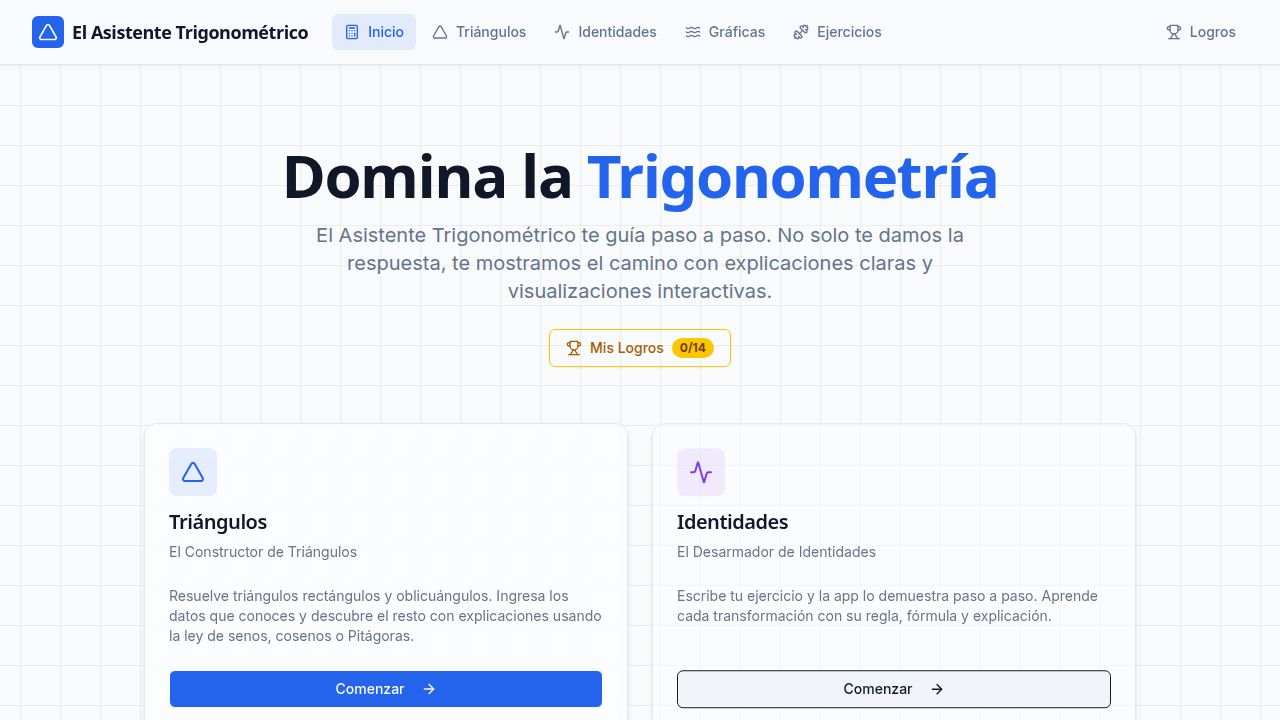
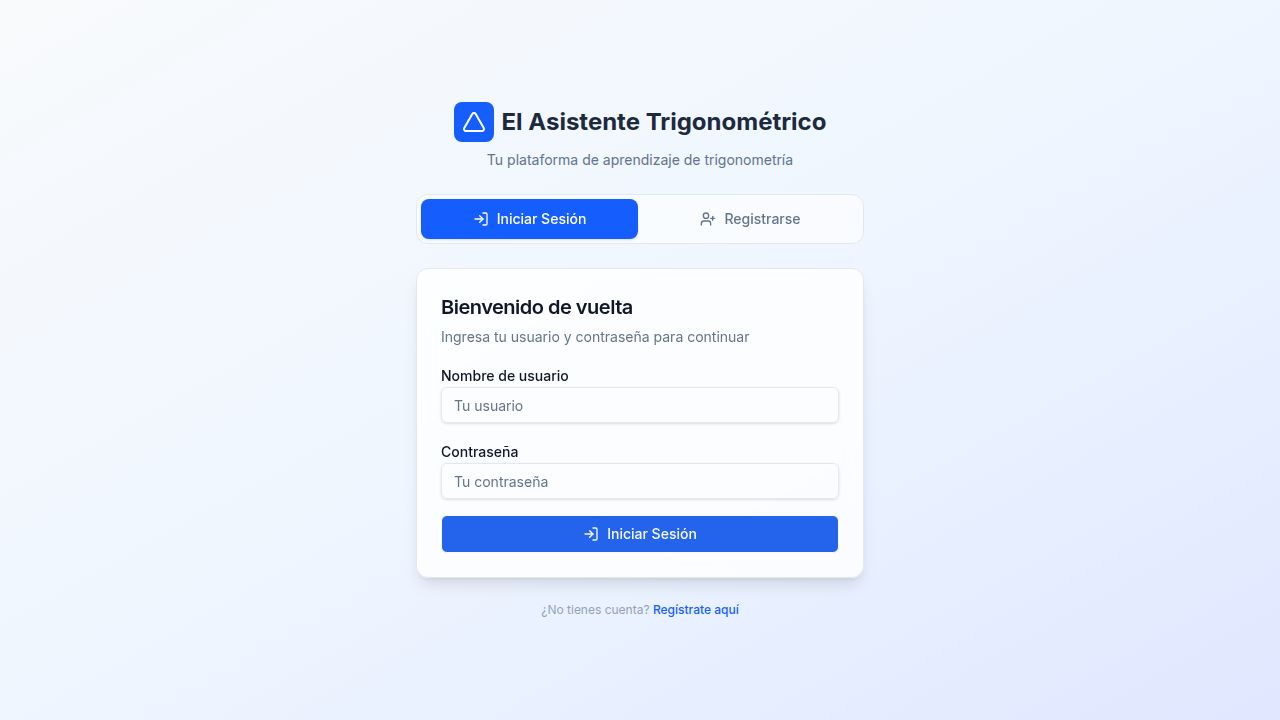
Add email notifications for user registration and login events
Integrate Resend email service to send welcome and security emails upon user registration and login, respectively, by modifying `auth.ts` and `mailer.ts`.

Replit-Commit-Author: Agent
Replit-Commit-Session-Id: d2a040cb-6e11-4bfe-9bbe-4e27666717b6
Replit-Commit-Checkpoint-Type: full_checkpoint
Replit-Commit-Event-Id: 7203d018-6c07-452c-97ee-eafd948a4675
Replit-Commit-Screenshot-Url: https://storage.googleapis.com/screenshot-production-us-central1/0520a791-d00d-41f6-a3dd-6ff82fb7f4d0/d2a040cb-6e11-4bfe-9bbe-4e27666717b6/n9VEuoZ
Replit-Helium-Checkpoint-Created: true

diff --git a/artifacts/api-server/src/lib/mailer.ts b/artifacts/api-server/src/lib/mailer.ts
@@ -1,0 +1,164 @@
+import { Resend } from "resend";
+import { logger } from "./logger";
+
+const resend = new Resend(process.env.RESEND_API_KEY);
+
+const FROM = "CoolTrigoGuy <[email redacted]>";
+
+const LOGO_SVG = `
+<div style="display:inline-flex;align-items:center;gap:12px;margin-bottom:8px;">
+  <div style="background:#2563eb;border-radius:10px;padding:10px;display:inline-block;">
+    <svg width="32" height="32" viewBox="0 0 24 24" fill="none" xmlns="http://www.w3.org/2000/svg">
+      <path d="M3 20L12 4L21 20H3Z" fill="white" stroke="white" stroke-width="1.5" stroke-linejoin="round"/>
+    </svg>
+  </div>
+  <span style="font-size:20px;font-weight:700;color:#1e293b;font-family:sans-serif;">
+    El Asistente Trigonométrico
+  </span>
+</div>
+`;
+
+function baseTemplate(content: string): string {
+  return `<!DOCTYPE html>
+<html lang="es">
+<head><meta charset="UTF-8"><meta name="viewport" content="width=device-width,initial-scale=1.0"></head>
+<body style="margin:0;padding:0;background:#f1f5f9;font-family:-apple-system,BlinkMacSystemFont,'Segoe UI',sans-serif;">
+  <table width="100%" cellpadding="0" cellspacing="0" style="background:#f1f5f9;padding:40px 16px;">
+    <tr><td align="center">
+      <table width="560" cellpadding="0" cellspacing="0" style="max-width:560px;width:100%;">
+        <!-- Header -->
+        <tr>
+          <td style="background:#2563eb;border-radius:12px 12px 0 0;padding:28px 36px;">
+            <div style="display:flex;align-items:center;gap:12px;">
+              <div style="background:rgba(255,255,255,0.2);border-radius:8px;padding:8px;display:inline-block;vertical-align:middle;">
+                <svg width="28" height="28" viewBox="0 0 24 24" fill="none" xmlns="http://www.w3.org/2000/svg">
+                  <path d="M3 20L12 4L21 20H3Z" fill="white" stroke="white" stroke-width="1.5" stroke-linejoin="round"/>
+                </svg>
+              </div>
+              <span style="display:inline-block;vertical-align:middle;color:white;font-size:18px;font-weight:700;margin-left:10px;">
+                El Asistente Trigonométrico
+              </span>
+            </div>
+            <div style="margin-top:6px;margin-left:2px;">
+              <span style="background:rgba(255,255,255,0.25);color:white;font-size:11px;font-weight:600;padding:3px 8px;border-radius:20px;letter-spacing:0.5px;">
+                ✦ MENSAJE OFICIAL
+              </span>
+            </div>
+          </td>
+        </tr>
+        <!-- Body -->
+        <tr>
+          <td style="background:white;padding:36px 36px 28px;">
+            ${content}
+          </td>
+        </tr>
+        <!-- Footer -->
+        <tr>
+          <td style="background:#f8fafc;border:1px solid #e2e8f0;border-top:none;border-radius:0 0 12px 12px;padding:20px 36px;text-align:center;">
+            <p style="margin:0;color:#94a3b8;font-size:12px;line-height:1.6;">
+              Este correo fue enviado por <strong>CoolTrigoGuy</strong>, el bot oficial de El Asistente Trigonométrico.<br>
+              Si no reconoces esta acción, ignora este mensaje.
+            </p>
+          </td>
+        </tr>
+      </table>
+    </td></tr>
+  </table>
+</body>
+</html>`;
+}
+
+export async function sendWelcomeEmail(to: string, username: string): Promise<void> {
+  const content = `
+    <h1 style="margin:0 0 8px;color:#1e293b;font-size:26px;font-weight:700;">
+      ¡Bienvenido, ${username}! 🎉
+    </h1>
+    <p style="margin:0 0 24px;color:#64748b;font-size:15px;line-height:1.6;">
+      Gracias por registrarte en <strong>El Asistente Trigonométrico</strong>. Tu cuenta ha sido creada con éxito.
+    </p>
+
+    <div style="background:#eff6ff;border:1px solid #bfdbfe;border-radius:10px;padding:20px 24px;margin-bottom:28px;">
+      <p style="margin:0 0 12px;color:#1e40af;font-size:14px;font-weight:600;">Con tu cuenta puedes:</p>
+      <ul style="margin:0;padding-left:20px;color:#1e40af;font-size:14px;line-height:2;">
+        <li>Resolver triángulos y calcular funciones trigonométricas</li>
+        <li>Verificar identidades trigonométricas paso a paso</li>
+        <li>Explorar gráficas interactivas de seno, coseno y tangente</li>
+        <li>Practicar con ejercicios y desbloquear <strong>14 logros</strong></li>
+      </ul>
+    </div>
+
+    <div style="text-align:center;margin-bottom:8px;">
+      <a href="https://trigonometrico.replit.app"
+         style="display:inline-block;background:#2563eb;color:white;font-size:15px;font-weight:600;padding:13px 32px;border-radius:8px;text-decoration:none;">
+        Ir a la plataforma →
+      </a>
+    </div>
+
+    <p style="margin:28px 0 0;color:#94a3b8;font-size:13px;border-top:1px solid #f1f5f9;padding-top:20px;">
+      — <strong>CoolTrigoGuy</strong>, tu asistente oficial
+    </p>
+  `;
+
+  try {
+    await resend.emails.send({
+      from: FROM,
+      to,
+      subject: "Gracias por registrarte en El Asistente Trigonométrico",
+      html: baseTemplate(content),
+    });
+  } catch (err) {
+    logger.warn({ err }, "Failed to send welcome email");
+  }
+}
+
+export async function sendLoginEmail(to: string, username: string): Promise<void> {
+  const now = new Date().toLocaleString("es-ES", {
+    timeZone: "America/Lima",
+    day: "2-digit",
+    month: "long",
+    year: "numeric",
+    hour: "2-digit",
+    minute: "2-digit",
+  });
+
+  const content = `
+    <h1 style="margin:0 0 8px;color:#1e293b;font-size:24px;font-weight:700;">
+      Nuevo inicio de sesión
+    </h1>
+    <p style="margin:0 0 24px;color:#64748b;font-size:15px;line-height:1.6;">
+      Hola <strong>${username}</strong>, acabas de iniciar sesión en <strong>El Asistente Trigonométrico</strong>.
+    </p>
+
+    <div style="background:#f0fdf4;border:1px solid #bbf7d0;border-radius:10px;padding:18px 24px;margin-bottom:24px;">
+      <p style="margin:0;color:#166534;font-size:14px;">
+        <span style="font-size:18px;">🔐</span>&nbsp;
+        <strong>Sesión iniciada correctamente</strong><br>
+        <span style="color:#15803d;font-size:13px;margin-left:26px;">
+          ${now}
+        </span>
+      </p>
+    </div>
+
+    <div style="background:#fff7ed;border:1px solid #fed7aa;border-radius:10px;padding:16px 24px;margin-bottom:28px;">
+      <p style="margin:0;color:#9a3412;font-size:13px;line-height:1.7;">
+        <strong>¿No fuiste tú?</strong> Si no reconoces este acceso, cambia tu contraseña inmediatamente
+        para proteger tu cuenta.
+      </p>
+    </div>
+
+    <p style="margin:0;color:#94a3b8;font-size:13px;border-top:1px solid #f1f5f9;padding-top:20px;">
+      — <strong>CoolTrigoGuy</strong>, tu asistente oficial
+    </p>
+  `;
+
+  try {
+    await resend.emails.send({
+      from: FROM,
+      to,
+      subject: "Iniciaste sesión en El Asistente Trigonométrico",
+      html: baseTemplate(content),
+    });
+  } catch (err) {
+    logger.warn({ err }, "Failed to send login email");
+  }
+}

diff --git a/artifacts/api-server/src/routes/auth.ts b/artifacts/api-server/src/routes/auth.ts
@@ -4,6 +4,7 @@ import jwt from "jsonwebtoken";
 import { db, usersTable } from "@workspace/db";
 import { eq } from "drizzle-orm";
 import { z } from "zod";
+import { sendWelcomeEmail, sendLoginEmail } from "../lib/mailer";
 
 const router = Router();
 
@@ -76,6 +77,9 @@ router.post("/register", async (req, res) => {
 
   const token = signToken(user.id, user.username);
   res.status(201).json({ token, username: user.username });
+
+  // Send welcome email asynchronously — don't block the response
+  sendWelcomeEmail(email.toLowerCase(), user.username).catch(() => {});
 });
 
 router.post("/login", async (req, res) => {
@@ -106,6 +110,9 @@ router.post("/login", async (req, res) => {
 
   const token = signToken(user.id, user.username);
   res.json({ token, username: user.username });
+
+  // Send login notification email asynchronously
+  sendLoginEmail(user.email, user.username).catch(() => {});
 });
 
 router.get("/me", (req, res) => {